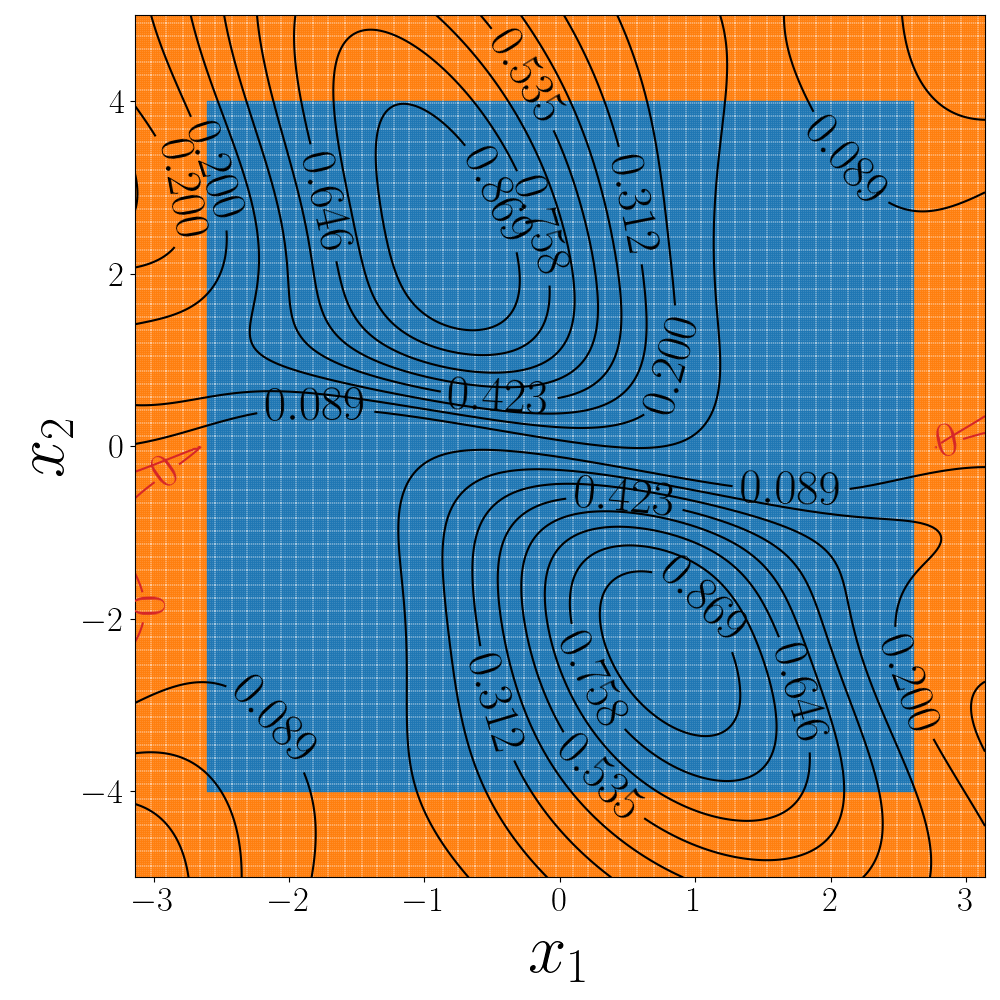
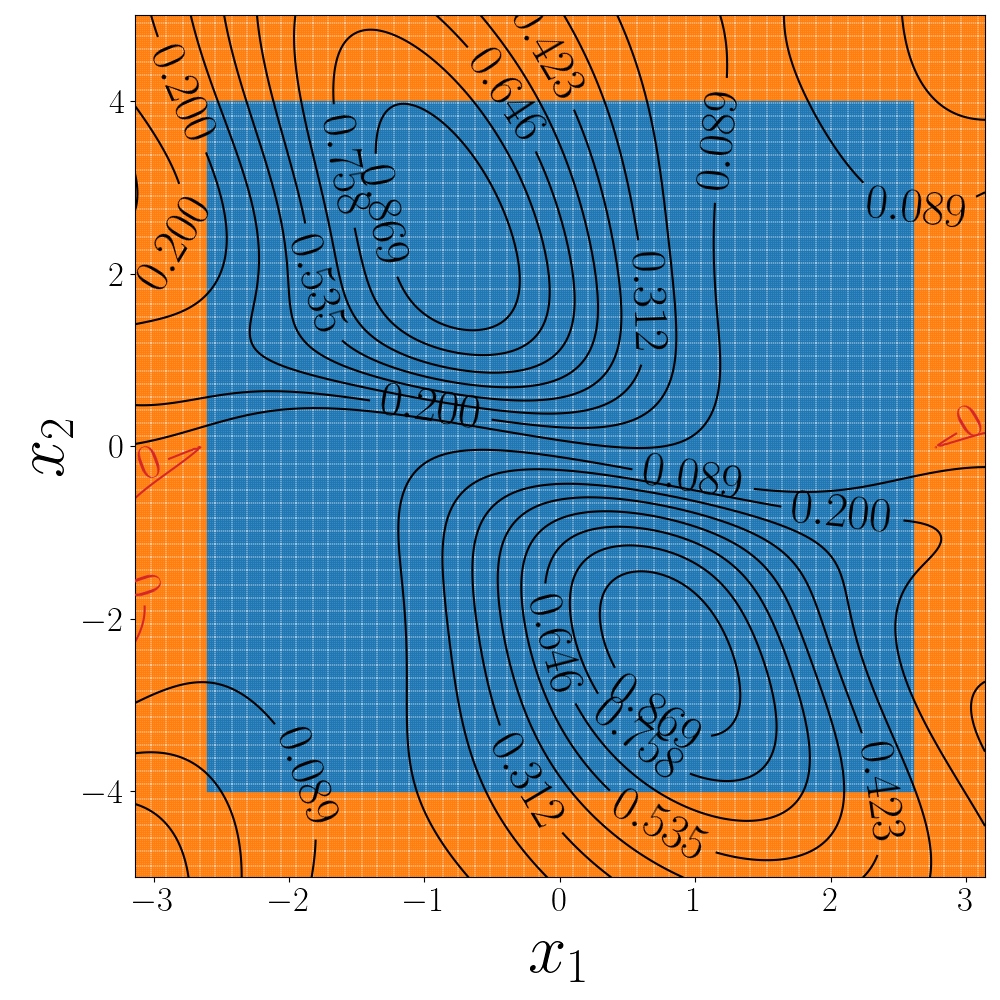
backup

diff --git a/eg1_inverted_pendulum/grid_stability_solve_first_order.py b/eg1_inverted_pendulum/grid_stability_solve_first_order.py
@@ -7,6 +7,7 @@ import numpy as np
 from pathlib import Path
 sys.path.append(str(Path(__file__).parent.parent))
 import time
+import matplotlib.pyplot as plt
 
 from cores.dynamical_systems.create_system import get_system
 from cores.lip_nn.models import LipschitzNetwork, ControllerNetwork
@@ -23,6 +24,12 @@ if __name__ == '__main__':
     parser.add_argument('--precision', default=1e-3, type=float, help='precision')
     parser.add_argument('--draw', action='store_true', help='draw the mesh')
     args = parser.parse_args()
+
+    # Matplotlib settings
+    plt.rcParams['font.family'] = 'serif'
+    plt.rcParams.update({"text.usetex": True,
+                        "text.latex.preamble": r"\usepackage{amsmath}"})
+    plt.rcParams.update({'pdf.fonttype': 42})
 
     # Create result directory
     print("==> Creating result directory ...")
@@ -221,7 +228,29 @@ if __name__ == '__main__':
 
             # Plot mesh
             if args.draw:
-                raise NotImplementedError("Drawing is not implemented yet.")
+                regions = mesh.regions
+                labelsize = 30
+                ticksize = 30
+                fig = plt.figure(figsize=(10, 10), dpi=100)
+                ax = fig.add_subplot(111)
+                for (idx, region) in enumerate(regions):
+                    x_lb, x_ub = region
+                    facecolor = "tab:blue" if f_lb[idx] >= 0 else "tab:orange"
+                    ax.add_patch(plt.Rectangle(x_lb.cpu().numpy(), 
+                                                x_ub.cpu().numpy()[0] - x_lb.cpu().numpy()[0], 
+                                                x_ub.cpu().numpy()[1] - x_lb.cpu().numpy()[1], 
+                                                edgecolor=None, facecolor=facecolor))
+                plt.xlabel(r"$x_1$", fontsize=labelsize)
+                plt.ylabel(r"$x_2$", fontsize=labelsize)
+                plt.tick_params(axis='both', which='major', labelsize=ticksize)
+                plt.xlim(subregion_lb_np[0], subregion_ub_np[0])
+                plt.ylim(subregion_lb_np[1], subregion_ub_np[1])
+                ax.add_patch(plt.Rectangle((0, 0), 0, 0, edgecolor=None, facecolor="tab:blue", label="Feasible"))
+                ax.add_patch(plt.Rectangle((0, 0), 0, 0, edgecolor=None, facecolor="tab:orange", label="Infeasible"))
+                plt.legend(fontsize=labelsize, loc="upper right")
+                plt.tight_layout()
+                plt.savefig(f"{results_dir}/00_grid_feasibility_{jj:010d}_{i:02d}.png", dpi=100)
+                plt.close()
 
             if f_lb_min >= 0:
                 success = True
@@ -233,7 +262,7 @@ if __name__ == '__main__':
                 print("> Early stopping. Done!")
                 break
             
-            refine_idx = (f_ub > 0)
+            refine_idx = (f_lb < 0)
             mesh.refine(refine_idx)
 
         end_time = time.time()
